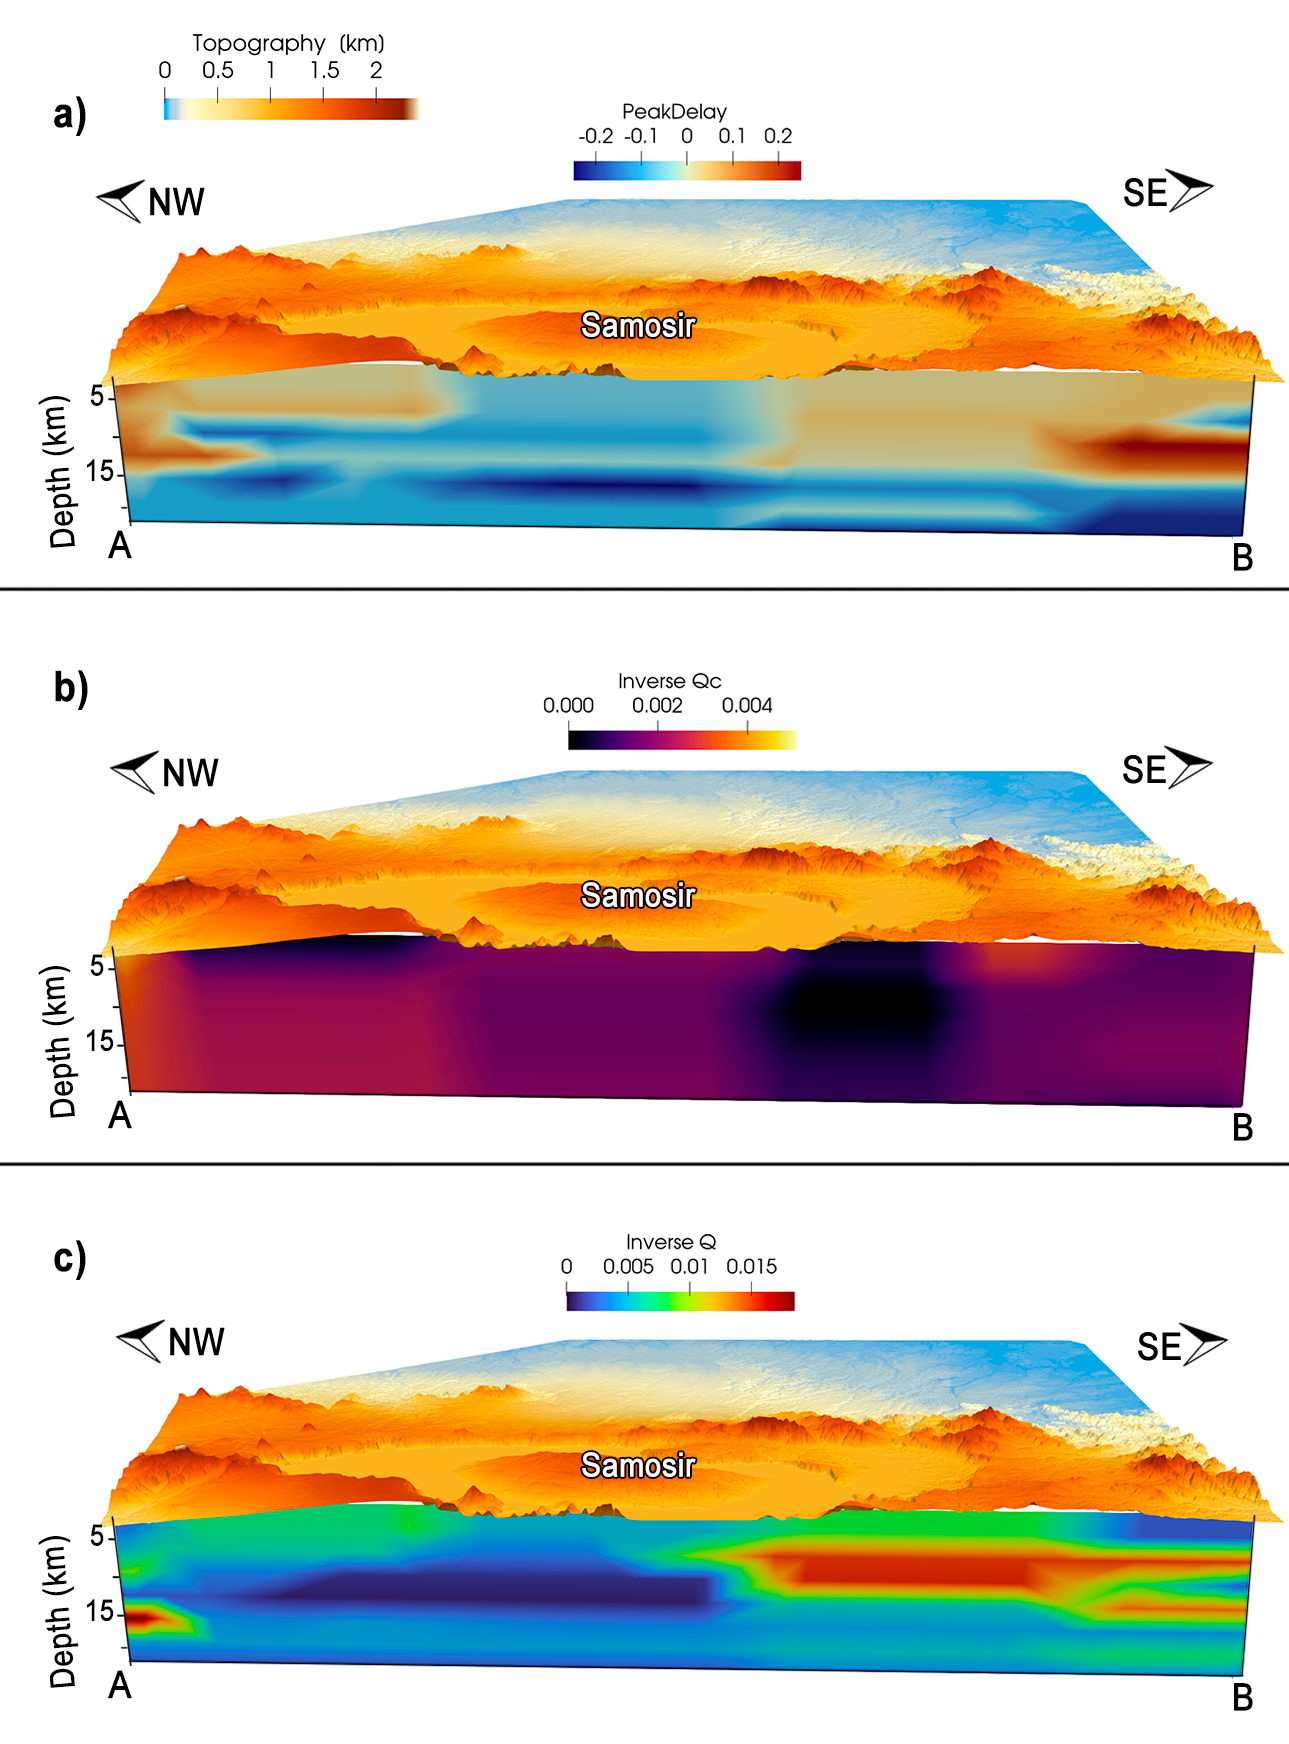
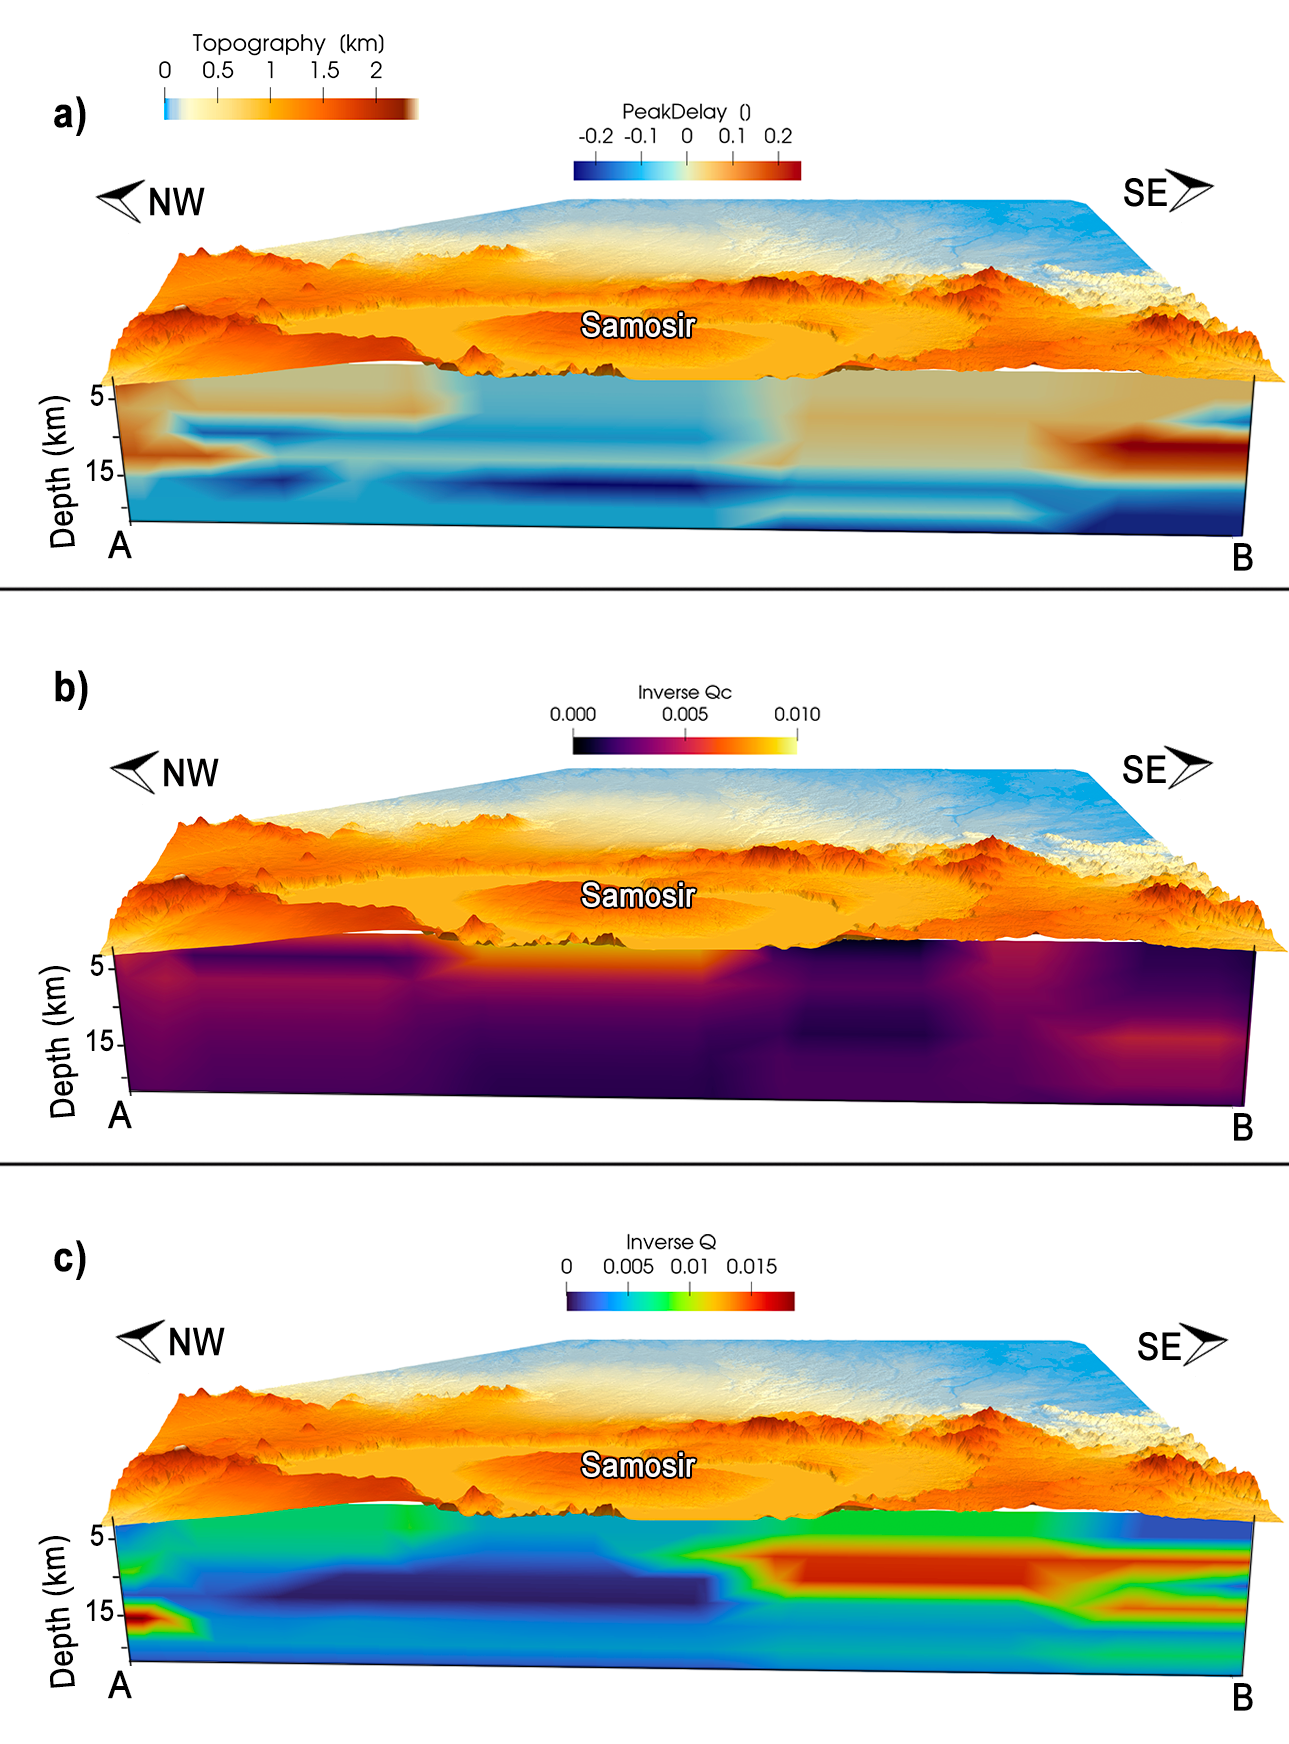
Prepare release 4.1.2
- CHANGELOG: Unreleased becomes [4.1.2] – 2026-11-28, with a note that
  NonLinear Qc models from any 4.x version must be recomputed; add the
  regenerated Fig. 3 and the compare links.
- CITATION.cff: version 4.1.2, date-released 2026-11-28.
- README citation and Toba input header: v4.1.2.
- paper/Fig3.png: panel b regenerated from the Toba example (Linearized,
  with the fixes of PR #79).

Changed region(s): [[0.0621, 0.3716, 0.993, 0.6502]]

diff --git a/Murat_inputToba.m b/Murat_inputToba.m
@@ -1,6 +1,6 @@
 %[text:tableOfContents]{"heading":"Table of Contents"}
 %[text] %[text:anchor:T_C5277B6D] # INPUT MuRAT - Toba
-%[text] This is an input file for the program Multi-Resolution Attenuation Tomography (MuRAT), version 4.1.1. It refers to the following area:
+%[text] This is an input file for the program Multi-Resolution Attenuation Tomography (MuRAT), version 4.1.2. It refers to the following area:
 %[text] ```
 %[text] TOBA CALDERA
 %[text] ```

diff --git a/CHANGELOG.md b/CHANGELOG.md
@@ -7,8 +7,11 @@ Dates follow ISO 8601 (YYYY-MM-DD). Versions follow [Semantic Versioning](https:
 
 ## [Unreleased]
 
-**If you used `QcMeasurement = 'NonLinear'` (any 4.x version), recompute
-your Qc models** (see Fixed).
+## [4.1.2] – 2026-11-28
+
+Bug-fix release. **If you used `QcMeasurement = 'NonLinear'` (any 4.x
+version), recompute your Qc models.** Linearized models change little,
+but runs made with 4.1.0 should be repeated (see 4.1.1).
 
 ### Fixed
 - **NonLinear Qc uncertainty grew weight with misfit (since 4.0).**
@@ -39,6 +42,8 @@ your Qc models** (see Fixed).
   noisy codas the linearized fit has about 1.5 times less scatter than
   the grid search, which normalises the coda by its last 1-s window. The
   JOSS paper's Fig. 3b is made from this setting.
+- `paper/Fig3.png`: panel b (coda attenuation) regenerated from the Toba
+  example with these fixes.
 
 ## [4.1.1] – 2026-11-27
 
@@ -359,7 +364,8 @@ Legacy release. Source archived at Zenodo:
 Luca De Siena et al. (2026). LucaDeSiena/MuRAT: Legacy MuRAT3.0 Code
 (v3.26.01.20). <https://doi.org/10.5281/zenodo.18314469>
 
-[Unreleased]: https://github.com/LucaDeSiena/MuRAT/compare/v4.1.1...HEAD
+[Unreleased]: https://github.com/LucaDeSiena/MuRAT/compare/v4.1.2...HEAD
+[4.1.2]: https://github.com/LucaDeSiena/MuRAT/compare/v4.1.1...v4.1.2
 [4.1.1]: https://github.com/LucaDeSiena/MuRAT/compare/v4.1.0...v4.1.1
 [4.1.0]: https://github.com/LucaDeSiena/MuRAT/compare/v4.0.1...v4.1.0
 [4.0.0]: https://github.com/LucaDeSiena/MuRAT/compare/v3.26.01.20...v4.0.0

diff --git a/README.md b/README.md
@@ -212,7 +212,7 @@ In all file names, *F* is the central frequency, with *_* for the decimal point 
 
 To cite MuRAT, please use the Zenodo DOI:
 
-> Luca De Siena et al. (2026). *MuRAT: a multi-resolution seismic attenuation tomography code* (v4.1.1). Zenodo. <https://doi.org/10.5281/zenodo.13996751>
+> Luca De Siena et al. (2026). *MuRAT: a multi-resolution seismic attenuation tomography code* (v4.1.2). Zenodo. <https://doi.org/10.5281/zenodo.13996751>
 
 A machine-readable citation is available in [CITATION.cff](CITATION.cff). On GitHub, the **Cite this repository** button (top-right of the repository page, under *About*) generates formatted citations automatically from that file.
 
